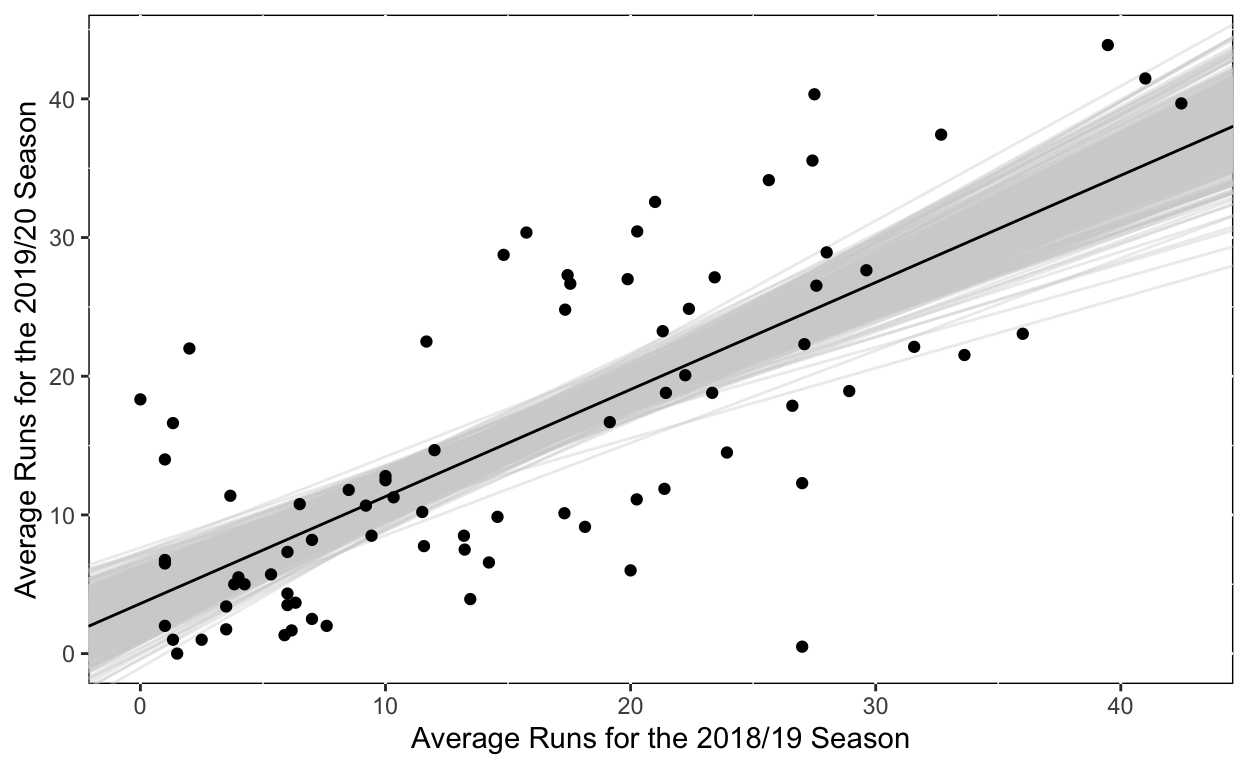
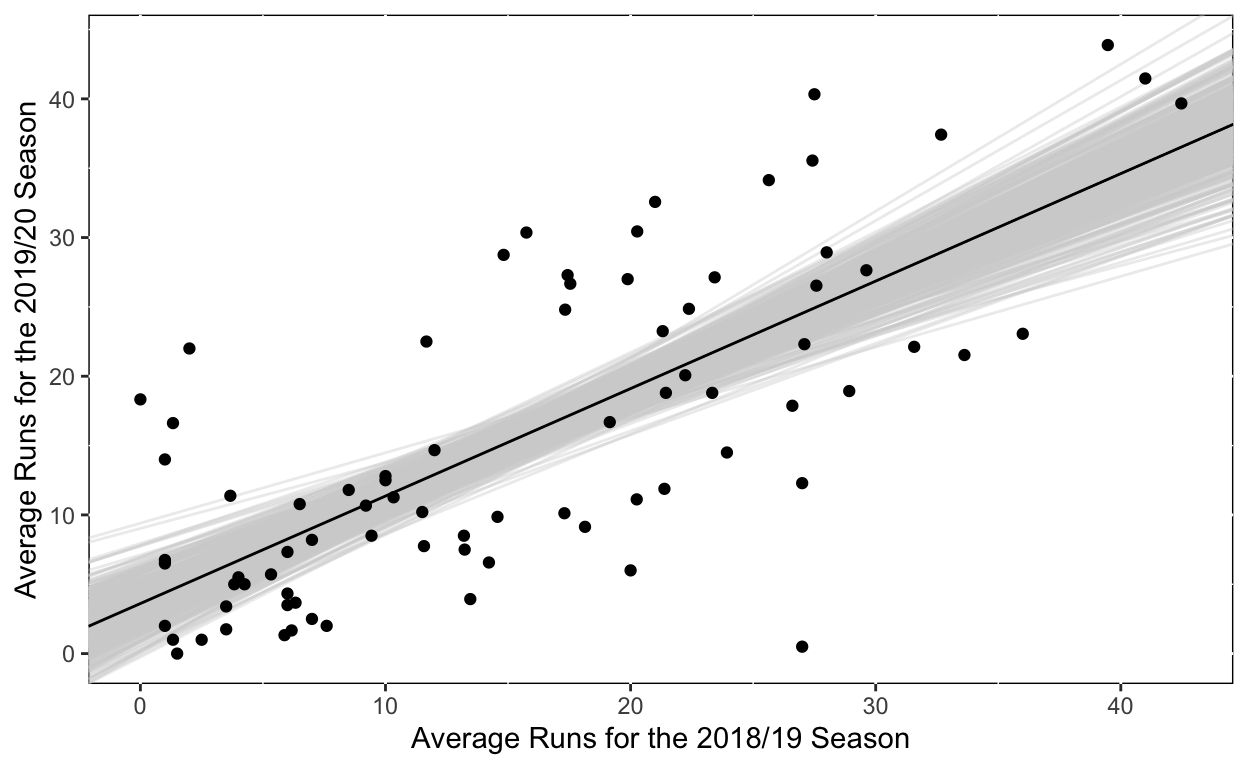
Updated cricket post

diff --git a/_posts/2021-03-06-cricket-performance/cricket_player_performance.html b/_posts/2021-03-06-cricket-performance/cricket_player_performance.html
@@ -1606,12 +1606,12 @@ code span.wa { color: #5e5e5e; font-style: italic; } /* Warning */
 <tbody>
 <tr class="odd">
 <td style="text-align: left;">(Intercept)</td>
-<td style="text-align: right;">3.60</td>
-<td style="text-align: right;">1.50</td>
+<td style="text-align: right;">3.61</td>
+<td style="text-align: right;">1.46</td>
 </tr>
 <tr class="even">
 <td style="text-align: left;"><code>2018/19</code></td>
-<td style="text-align: right;">0.77</td>
+<td style="text-align: right;">0.78</td>
 <td style="text-align: right;">0.08</td>
 </tr>
 </tbody>
@@ -1619,8 +1619,8 @@ code span.wa { color: #5e5e5e; font-style: italic; } /* Warning */
 </div>
 <p>Let’s demonstrate with the prediction of the 2019/20 performance presented in Table <a href="#tab:predPerf2019">2</a> (Figure <a href="#fig:plot1920Model">1</a> plots the regression model of 2019/20 season performance on to 2018/19 season performance along with the regression line uncertainty):</p>
 <ul>
-<li><p>Based on the model, if a player averaged 0 runs in the 2018/19 season, they are predicted to achieve an average run rate of 3.6 in the 2019/20 season.</p></li>
-<li><p>Each average run rate that is greater than 0 in the 2018/19 season results in an expected average run rate that is 0.77 higher than 3.6. As this coefficient is below 1, it is indicative of batting performance regressing to the mean. For example, if a player averaged 25 runs in 2018/19, they are predicted to average 22.87 runs in the 2019/20 season. In other words, whilst a player may be a highly skilled batsman, there is a degree of luck from match-to-match (e.g., tiredness or playing the wrong shot).</p></li>
+<li><p>Based on the model, if a player averaged 0 runs in the 2018/19 season, they are predicted to achieve an average run rate of 3.61 in the 2019/20 season.</p></li>
+<li><p>Each average run rate that is greater than 0 in the 2018/19 season results in an expected average run rate that is 0.78 higher than 3.61. As this coefficient is below 1, it is indicative of batting performance regressing to the mean. For example, if a player averaged 25 runs in 2018/19, they are predicted to average 22.87 runs in the 2019/20 season. In other words, whilst a player may be a highly skilled batsman, there is a degree of luck from match-to-match (e.g., tiredness or playing the wrong shot).</p></li>
 <li><p>The residual standard deviation of the model is 8. This means that our model predicts the average run rate in 2019/20 to within 8 runs. So while previous performance may be important in future performance, it isn’t enough to make a perfect prediction.</p></li>
 </ul>
 <div class="layout-chunk" data-layout="l-body-outset">
@@ -1632,7 +1632,7 @@ Figure 1: Point estimate line for the regression of 2019/20 season performance o
 </div>
 </div>
 <h1 id="summary">Summary</h1>
-<p>I’ve attempted to illustrate regression to the mean in cricket performances. As shown above, even though a player may perform well in a given year, this does not mean that future performances will be consistent. This is because performances are an imperfect measure of ability on account of random variations (i.e., a player may have had a lucky season).</p>
+<p>I’ve attempted to illustrate regression to the mean in cricket performances. As shown above, even though a player may perform well in a given year, this does not mean that future performances will be consistent. This is because performances are an imperfect measure of ability on account of random variations (i.e., a player may have had a lucky (or unlucky) season).</p>
 <div class="sourceCode" id="cb1"><pre class="sourceCode r distill-force-highlighting-css"><code class="sourceCode r"></code></pre></div>
 <!--radix_placeholder_article_footer-->
 <!--/radix_placeholder_article_footer-->

diff --git a/_site/posts/2021-03-06-cricket-performance/index.html b/_site/posts/2021-03-06-cricket-performance/index.html
@@ -2234,12 +2234,12 @@ gtag('config', 'G-3X1Y20RSZP');
 <tbody>
 <tr class="odd">
 <td style="text-align: left;">(Intercept)</td>
-<td style="text-align: right;">3.60</td>
-<td style="text-align: right;">1.50</td>
+<td style="text-align: right;">3.61</td>
+<td style="text-align: right;">1.46</td>
 </tr>
 <tr class="even">
 <td style="text-align: left;"><code>2018/19</code></td>
-<td style="text-align: right;">0.77</td>
+<td style="text-align: right;">0.78</td>
 <td style="text-align: right;">0.08</td>
 </tr>
 </tbody>
@@ -2247,8 +2247,8 @@ gtag('config', 'G-3X1Y20RSZP');
 </div>
 <p>Let’s demonstrate with the prediction of the 2019/20 performance presented in Table <a href="#tab:predPerf2019">2</a> (Figure <a href="#fig:plot1920Model">1</a> plots the regression model of 2019/20 season performance on to 2018/19 season performance along with the regression line uncertainty):</p>
 <ul>
-<li><p>Based on the model, if a player averaged 0 runs in the 2018/19 season, they are predicted to achieve an average run rate of 3.6 in the 2019/20 season.</p></li>
-<li><p>Each average run rate that is greater than 0 in the 2018/19 season results in an expected average run rate that is 0.77 higher than 3.6. As this coefficient is below 1, it is indicative of batting performance regressing to the mean. For example, if a player averaged 25 runs in 2018/19, they are predicted to average 22.87 runs in the 2019/20 season. In other words, whilst a player may be a highly skilled batsman, there is a degree of luck from match-to-match (e.g., tiredness or playing the wrong shot).</p></li>
+<li><p>Based on the model, if a player averaged 0 runs in the 2018/19 season, they are predicted to achieve an average run rate of 3.61 in the 2019/20 season.</p></li>
+<li><p>Each average run rate that is greater than 0 in the 2018/19 season results in an expected average run rate that is 0.78 higher than 3.61. As this coefficient is below 1, it is indicative of batting performance regressing to the mean. For example, if a player averaged 25 runs in 2018/19, they are predicted to average 22.87 runs in the 2019/20 season. In other words, whilst a player may be a highly skilled batsman, there is a degree of luck from match-to-match (e.g., tiredness or playing the wrong shot).</p></li>
 <li><p>The residual standard deviation of the model is 8. This means that our model predicts the average run rate in 2019/20 to within 8 runs. So while previous performance may be important in future performance, it isn’t enough to make a perfect prediction.</p></li>
 </ul>
 <div class="layout-chunk" data-layout="l-body-outset">
@@ -2260,7 +2260,7 @@ Figure 1: Point estimate line for the regression of 2019/20 season performance o
 </div>
 </div>
 <h1 id="summary">Summary</h1>
-<p>I’ve attempted to illustrate regression to the mean in cricket performances. As shown above, even though a player may perform well in a given year, this does not mean that future performances will be consistent. This is because performances are an imperfect measure of ability on account of random variations (i.e., a player may have had a lucky season).</p>
+<p>I’ve attempted to illustrate regression to the mean in cricket performances. As shown above, even though a player may perform well in a given year, this does not mean that future performances will be consistent. This is because performances are an imperfect measure of ability on account of random variations (i.e., a player may have had a lucky (or unlucky) season).</p>
 <div class="sourceCode" id="cb1"><pre class="sourceCode r distill-force-highlighting-css"><code class="sourceCode r"></code></pre></div>
 <!--radix_placeholder_article_footer-->
 <!--/radix_placeholder_article_footer-->
